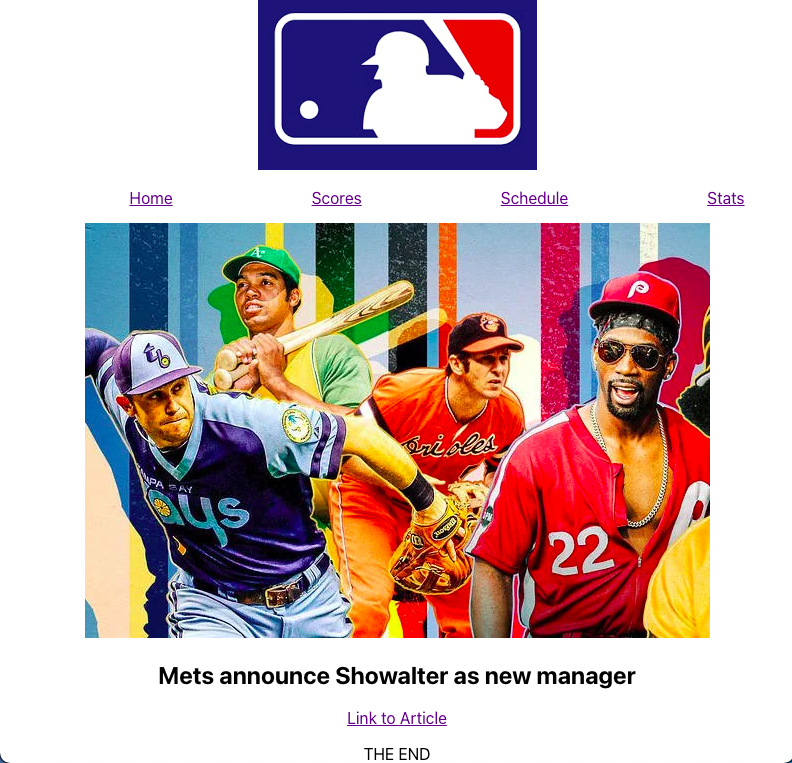
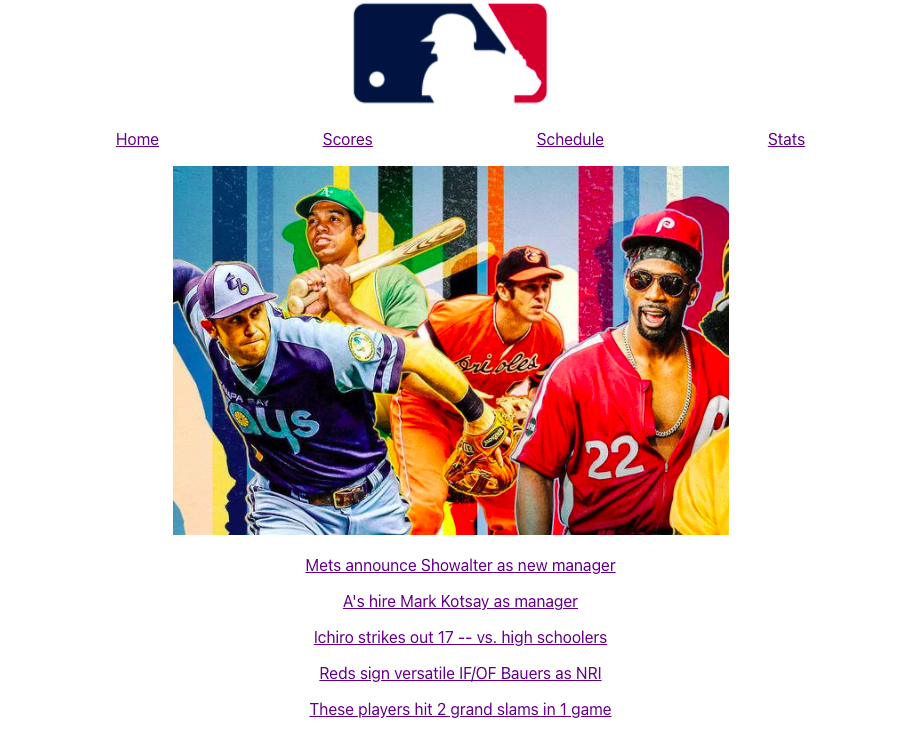
updated readme image

diff --git a/src/App.css b/src/App.css
@@ -13,7 +13,7 @@
 
 ul {
   display: flex;
-  justify-content: space-evenly;
+  justify-content: space-around;
   margin: 0 30px 0 0;
 }
 
@@ -28,7 +28,7 @@ li {
 }
 
 .logo {
-  max-height: 20vw;
+  max-height: 12vw;
   max-width: 40vw;
 }
 
